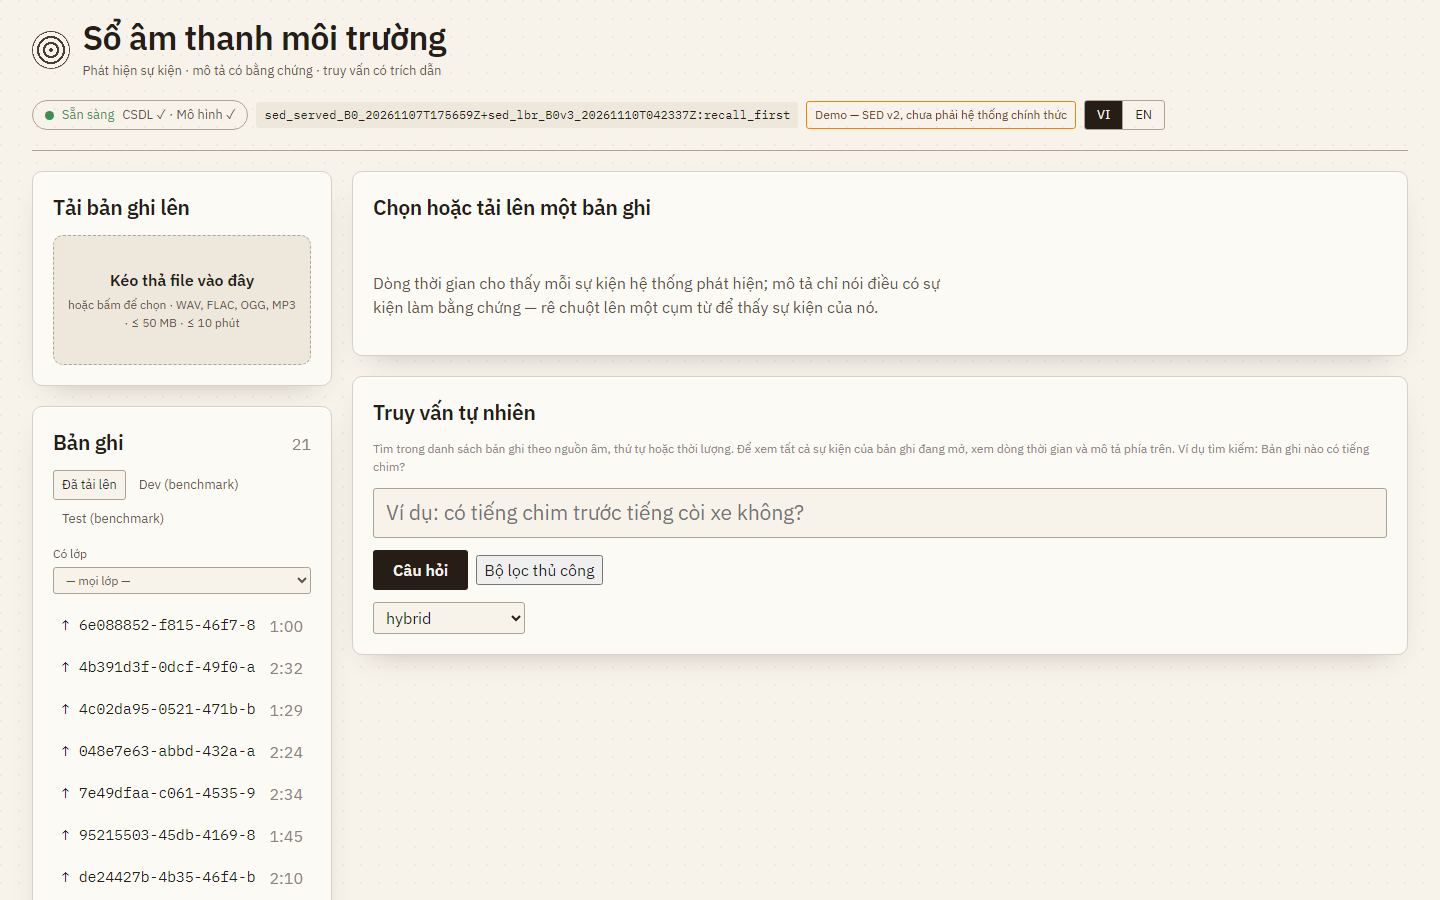
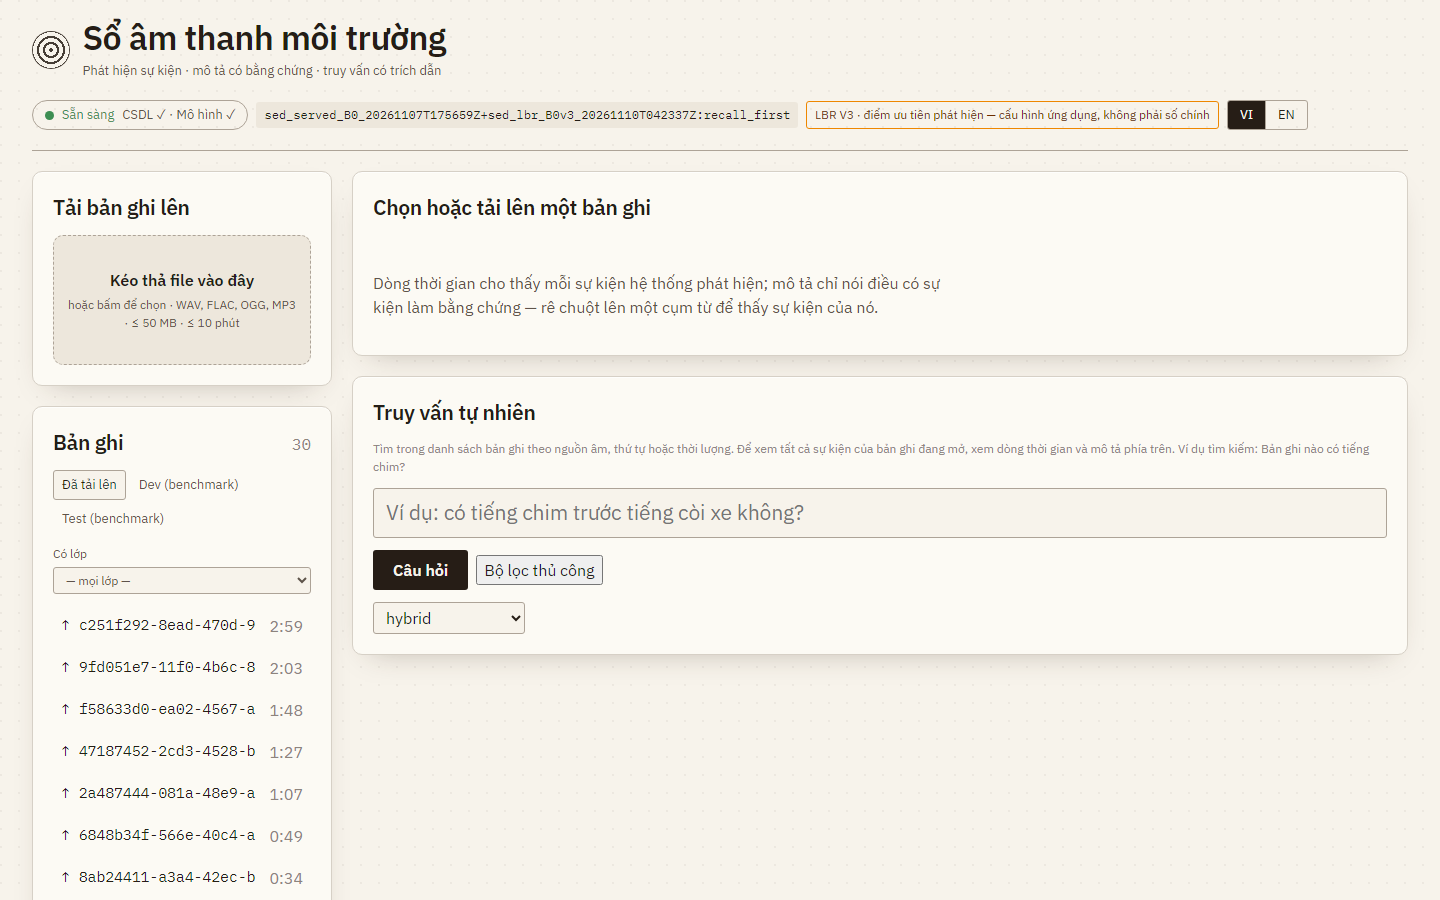
docs: T0-12 — chụp lại ảnh demo trên LBR V3 và tách Hình 5.1 thành hai hình
Bối cảnh: ảnh cũ mang badge "SED v2" lỗi thời, ghép bốn khung nên chữ quá nhỏ,
và hai ảnh truy vấn bị cắt mất bộ lọc và câu trả lời.

Thay đổi:
- Chụp lại 4 ảnh bằng Playwright trên stack đang phục vụ LBR V3 recall_first;
  ảnh 03/04 chụp riêng khung truy vấn để thấy trọn bộ lọc, câu trả lời, bằng chứng.
- build_final_figures: f03a (khởi động + dòng thời gian) và f03b (truy vấn +
  bằng chứng) thay cho ảnh ghép f03.
- Chương 5: hai hình có chú thích riêng, nói rõ câu trả lời lấy từ mẫu cố định
  còn bộ phân tích chỉ chuyển câu hỏi thành bộ lọc.
- PLAN: T0-10 (đã đo độ trễ), T0-12 hoàn tất.

Kiểm chứng: ruff sạch; pytest 1215 pass, 1 xfail; check_doc_links,
check_doc_claims 0 lỗi; dựng thử DOCX không còn tham chiếu chưa giải.

Ảnh hưởng: chỉ ảnh và văn bản; bản ghi trong ảnh đều thuộc tập TRAIN.

diff --git a/scripts/build_final_figures.py b/scripts/build_final_figures.py
@@ -21,7 +21,6 @@ import matplotlib.pyplot as plt  # noqa: E402
 
 from ml.provenance import git_state  # noqa: E402
 from scripts.build_midterm_figures import figure_architecture  # noqa: E402
-from scripts.build_thesis_figures import demo_interface  # noqa: E402
 
 ROOT = Path(__file__).resolve().parents[1]
 DEFAULT_OUTPUT = ROOT / "report" / "final_figures"
@@ -104,6 +103,30 @@ def figure_sed_final(data: dict[str, Any], path: Path) -> None:
     plt.close(fig)
 
 
+def demo_figures(output: Path) -> list[str]:
+    """Tách ảnh demo thành hai hình (hai ảnh xếp dọc, rồi một ảnh) để chữ còn đọc được."""
+    shots = ROOT / "docs" / "demo_screenshots"
+    groups = {
+        "f03a_demo_upload_timeline.png": (("01-start.png", "Tải lên và danh sách bản ghi"),
+                                          ("02-timeline.png", "Dòng thời gian và mô tả")),
+        "f03b_demo_query_evidence.png": (("04-rag-evidence.png",
+                                          "Câu hỏi, bộ lọc đã hiểu, câu trả lời và bằng chứng"),),
+    }
+    for name, pair in groups.items():
+        fig, axes = plt.subplots(len(pair), 1, figsize=(7.2, 4.7 * len(pair)), squeeze=False)
+        for ax, (shot, title) in zip(axes.flat, pair, strict=True):
+            path = shots / shot
+            if not path.is_file():
+                raise FileNotFoundError(f"Thiếu ảnh demo: {path.relative_to(ROOT)}")
+            ax.imshow(plt.imread(path))
+            ax.set_title(title, fontsize=10, fontweight="bold")
+            ax.axis("off")
+        fig.tight_layout()
+        fig.savefig(output / name, dpi=DPI, bbox_inches="tight", facecolor="white")
+        plt.close(fig)
+    return list(groups)
+
+
 def main() -> None:
     parser = argparse.ArgumentParser(description=__doc__)
     parser.add_argument("--final-numbers", type=Path, required=True)
@@ -114,14 +137,12 @@ def main() -> None:
     out = args.output / "f01_sed_final.png"
     figure_sed_final(data, out)
     figure_architecture(args.output / "f02_architecture.png", "SED B0 + LBR V3, mô tả")
-    revision = git_state(ROOT)["revision"]
-    demo_interface(args.output, revision)
-    (args.output / "07_demo_interface.png").replace(args.output / "f03_demo_interface.png")
+    demo = demo_figures(args.output)
     manifest = {
         "git": git_state(ROOT),
         "dpi": DPI,
         "source": args.final_numbers.resolve().relative_to(ROOT).as_posix(),
-        "figures": ["f01_sed_final.png", "f02_architecture.png", "f03_demo_interface.png"],
+        "figures": ["f01_sed_final.png", "f02_architecture.png", *demo],
     }
     (args.output / "manifest.json").write_text(
         json.dumps(manifest, ensure_ascii=False, indent=2), encoding="utf-8"

diff --git a/report/final_src/05_trien_khai.md b/report/final_src/05_trien_khai.md
@@ -67,13 +67,19 @@ Hai nguyên tắc ranh giới được kiểm bằng máy chứ không chỉ là
 
 **Cơ sở dữ liệu** PostgreSQL gồm bảy bảng. Ba quyết định thiết kế có ý nghĩa phương pháp: bảng `caption_evidence` nối mô tả với sự kiện — đó chính là định nghĩa của "có căn cứ", một mô tả không có dòng bằng chứng nào là vi phạm; bảng tài liệu truy hồi tách khỏi bảng mô tả để đổi mô hình embedding mà không phải sinh lại mô tả; và cột nguồn gốc trên bảng sự kiện phân biệt nhãn gốc với dự đoán. Truy vấn dùng chỉ mục thường cho lớp và thời gian, chỉ mục GIN cho mảng lớp, và chỉ mục đồ thị HNSW cho khoảng cách cosine.
 
-**Giao diện web** (React) có sáu phần: khung tải lên; danh sách bản ghi; dòng thời gian sự kiện (bấm vào sự kiện để nghe đúng đoạn); mô tả song ngữ Anh–Việt kèm bằng chứng; khung hỏi bằng câu tự nhiên, hiển thị bộ lọc đã phân tích dưới dạng thẻ sửa được; và thanh trạng thái mô hình. Bấm vào một trích dẫn trong câu trả lời sẽ mở đúng bản ghi và tua tới đúng khoảng thời gian (⟪fig:demo⟫).
+**Giao diện web** (React) có sáu phần: khung tải lên; danh sách bản ghi; dòng thời gian sự kiện (bấm vào sự kiện để nghe đúng đoạn); mô tả song ngữ Anh–Việt kèm bằng chứng; khung hỏi bằng câu tự nhiên, hiển thị bộ lọc đã phân tích dưới dạng thẻ sửa được; và thanh trạng thái mô hình. Thanh trạng thái ghi rõ mô hình đang phục vụ đọc từ dịch vụ suy luận; với LBR V3 thanh này ghi "cấu hình ứng dụng, không phải số chính" (⟪fig:demo1⟫). Bấm vào một trích dẫn trong câu trả lời sẽ mở đúng bản ghi và tua tới đúng khoảng thời gian (⟪fig:demo2⟫).
 
-![](report/final_figures/f03_demo_interface.png){width=13cm}
+![](report/final_figures/f03a_demo_upload_timeline.png){width=12cm}
 
-@@CAP:fig:demo|Giao diện demo: tải lên, dòng thời gian, bộ lọc từ câu hỏi và bằng chứng@@
+@@CAP:fig:demo1|Giao diện demo: thanh trạng thái mô hình, danh sách bản ghi, dòng thời gian và mô tả@@
 
-@@NOTE:Nguồn: docs/demo_screenshots/ (Playwright, 1440×900, chụp trên LBR V3 ngày 11/11/2026), ghép bằng scripts/build_final_figures.py; bản ghi trong lịch sử demo chỉ lấy từ tập train.@@
+@@NOTE:Nguồn: docs/demo_screenshots/ (Playwright, 1440×900, chụp trên LBR V3 ngày 23/11/2026), ghép bằng scripts/build_final_figures.py; bản ghi trong lịch sử demo chỉ lấy từ tập train.@@
+
+![](report/final_figures/f03b_demo_query_evidence.png){width=13cm}
+
+@@CAP:fig:demo2|Giao diện demo: câu hỏi tự nhiên thành bộ lọc, câu trả lời kèm bằng chứng@@
+
+@@NOTE:Nguồn: như hình trước; câu hỏi "Có tiếng chim trước tiếng còi xe không?" do bộ phân tích câu hỏi chuyển thành bộ lọc `before`, còn câu trả lời lấy từ mẫu cố định của hệ thống.@@
 
 ## Độ trễ
 

diff --git a/docs/PLAN.md b/docs/PLAN.md
@@ -454,8 +454,8 @@ lại từ JSON đã đóng băng. Số mới nào cũng vào `docs/claims.yaml`
 | 1 | T0-05 | Sửa lỗi K02/K03/K04/K07/K09/K11/K12/K13/K16 và câu về λ (`04` L38); đoạn tái sử dụng test (42 lượt); cận trên RQ1 | agent | ✅ 23/11 (K02/K03/K04/K09/K12/K13/K14/K16, λ, mục "Tái sử dụng tập test") |
 | 1 | T0-09 | Mục tình huống sử dụng: persona, 3 tác vụ, bảng yêu cầu ↔ tính năng ↔ bằng chứng; QCVN 26:2025/BNNMT (trích từ PDF gốc) kèm giới hạn "không thay máy đo Class 1"; số tập 19 lớp Việt Nam (B0 0.1892, V2 0.3120, V3 0.8319/0.7810) | agent | ✅ 23/11 (Chương 1 QCVN từ PDF gốc + bảng ánh xạ; Chương 5 persona, tác vụ, bảng yêu cầu) |
 | 1 | T0-11, T0-16 | Bảng khối lượng hiện thực, sơ đồ triển khai Compose; accuracy bộ phân loại 0.9135 cạnh FA2025 kèm cảnh báo không cùng điều kiện | agent | ◐ 23/11: bảng khối lượng (f12, đếm lại ở T0-13) và bảng dịch vụ thay cho sơ đồ; accuracy 0,9135 có; T0-16 ✅ 23/11: bảng lịch sử phân loại theo phiên bản dữ liệu (FA2025 trên validation, khóa luận trên v3, dự án GitHub trên v4), nguồn đọc trực tiếp, kèm cảnh báo không so trực tiếp |
-| 2 | T0-10 | Bảng hiệu năng (CPU/GPU, RTF, RAM, khởi động, độ trễ truy vấn) + field test định tính trên clip tự thu, hai SV nghe chấm độc lập | agent + người dùng | ○ |
-| 3 | T0-12 | Badge StatusBar đọc `served_run`/`operating_point` thay chuỗi ghi cứng; chụp lại ảnh; tách Hình 5.1 | agent | ◐ 23/11: badge đọc `lbr_run`/`operating_point`/`served_run` (vitest 14/14); còn chụp lại ảnh sau khi build lại image api |
+| 2 | T0-10 | Bảng hiệu năng (CPU/GPU, RTF, RAM, khởi động, độ trễ truy vấn) + field test định tính trên clip tự thu, hai SV nghe chấm độc lập | agent + người dùng | ◐ 23/11: đo độ trễ xong trên CPU container (latency_lbrv3_20261123, bảng f13, Chương 5); còn field test chờ clip của người dùng |
+| 3 | T0-12 | Badge StatusBar đọc `served_run`/`operating_point` thay chuỗi ghi cứng; chụp lại ảnh; tách Hình 5.1 | agent | ◐ 23/11: badge đọc `lbr_run`/`operating_point`/`served_run` (vitest 14/14); ✅ 23/11: ảnh chụp lại trên LBR V3, Hình 5.1 tách thành 5.1 và 5.2 (f03a, f03b) |
 | 4 | T0-02 | Hình thức: trang nhận xét GVPB (`@@REVIEWPAGE@@`), danh mục viết tắt, sửa "15 → 20 bản ghi" và `official=true`, SYSTEM.md L666, DEMO.md L50 | agent + người dùng | ○ |
 | 5 | T0-13 | Dựng lại DOCX/PDF, `check_midterm_docx`, gate đầy đủ, đọc chéo hai người | agent + người dùng | ○ |
 
